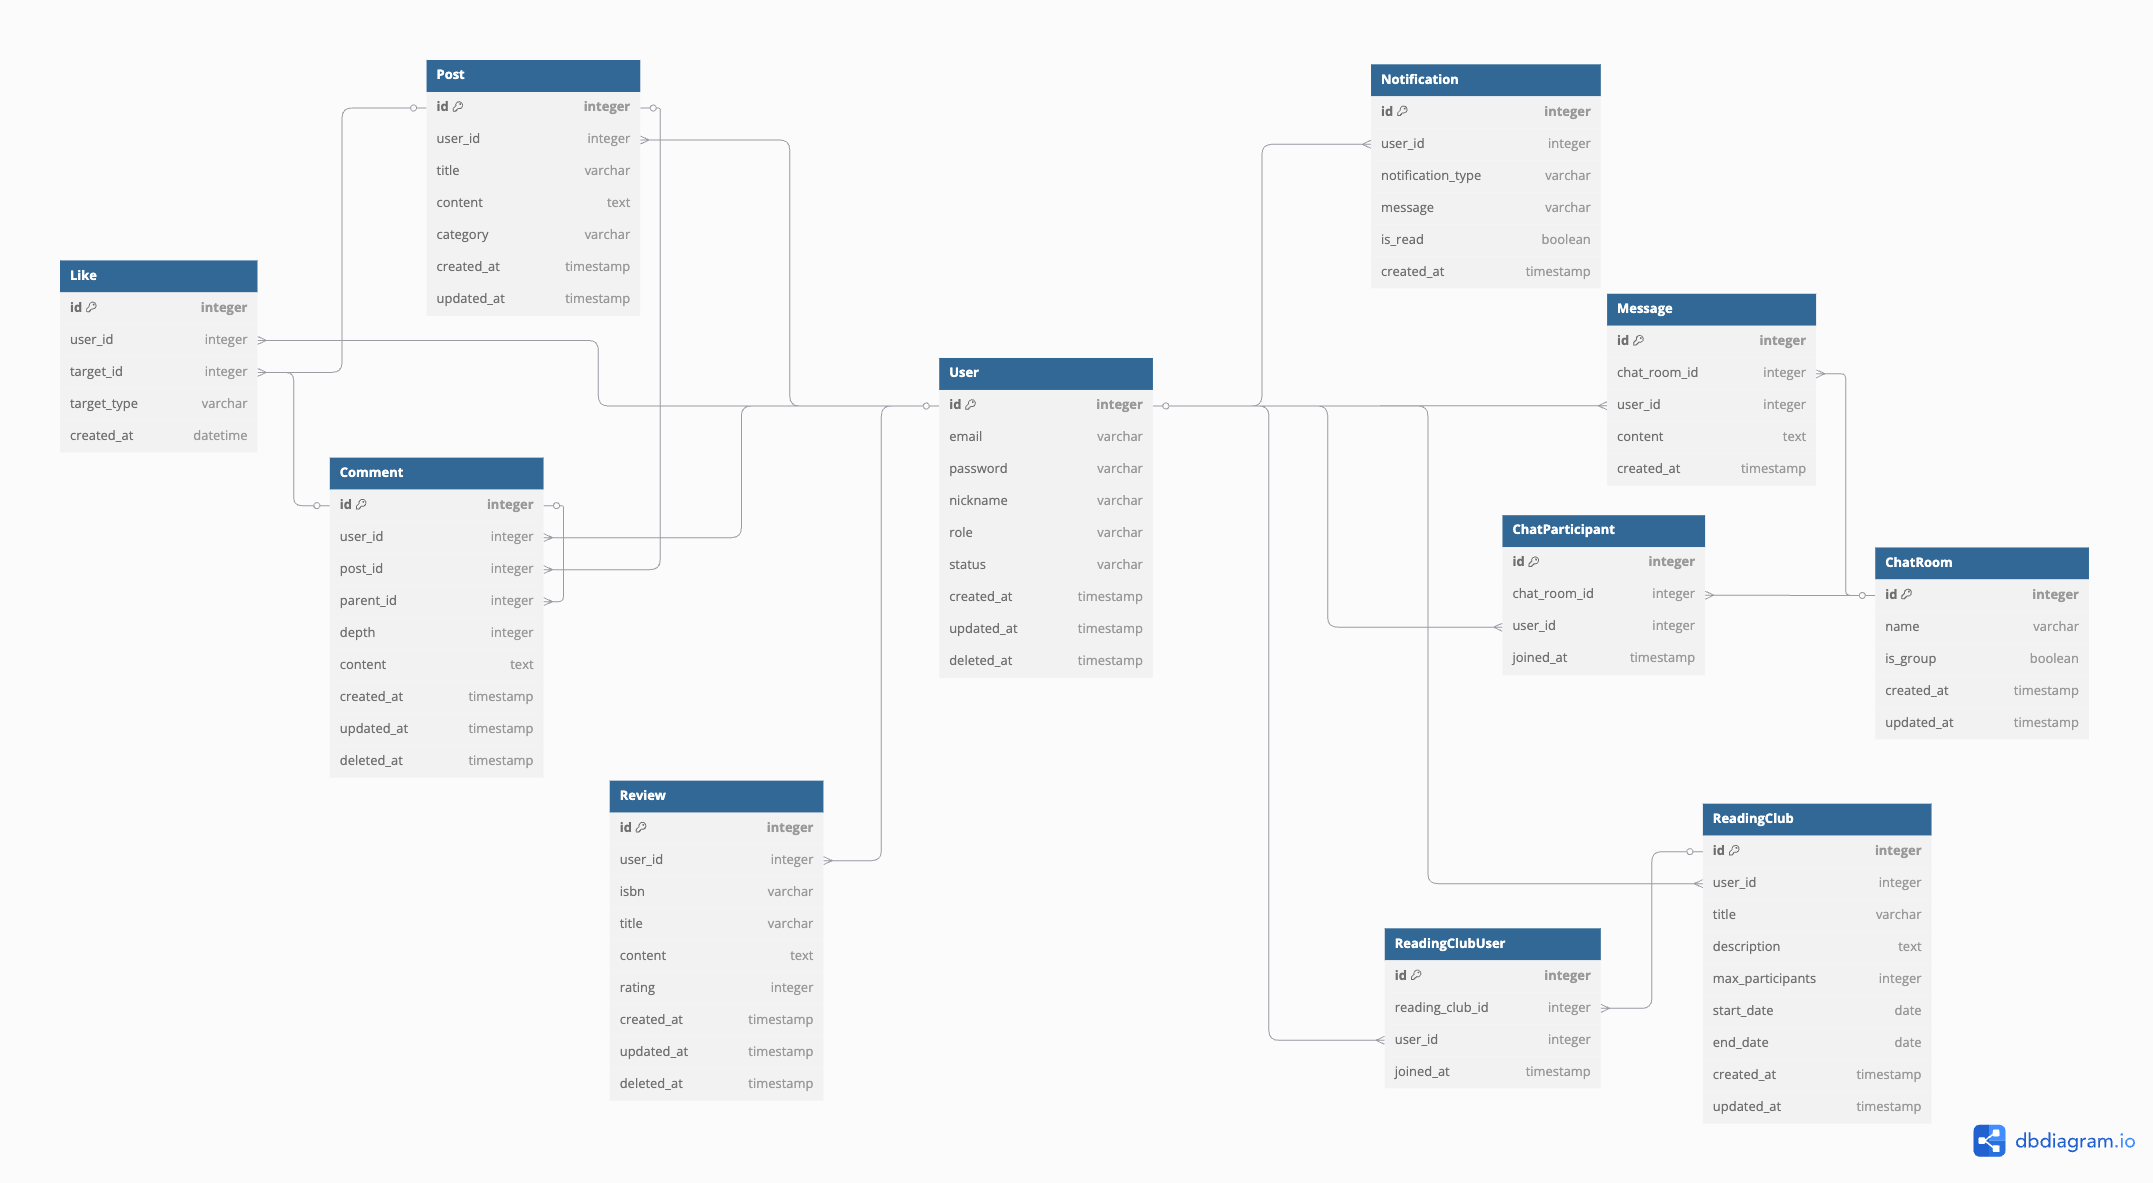
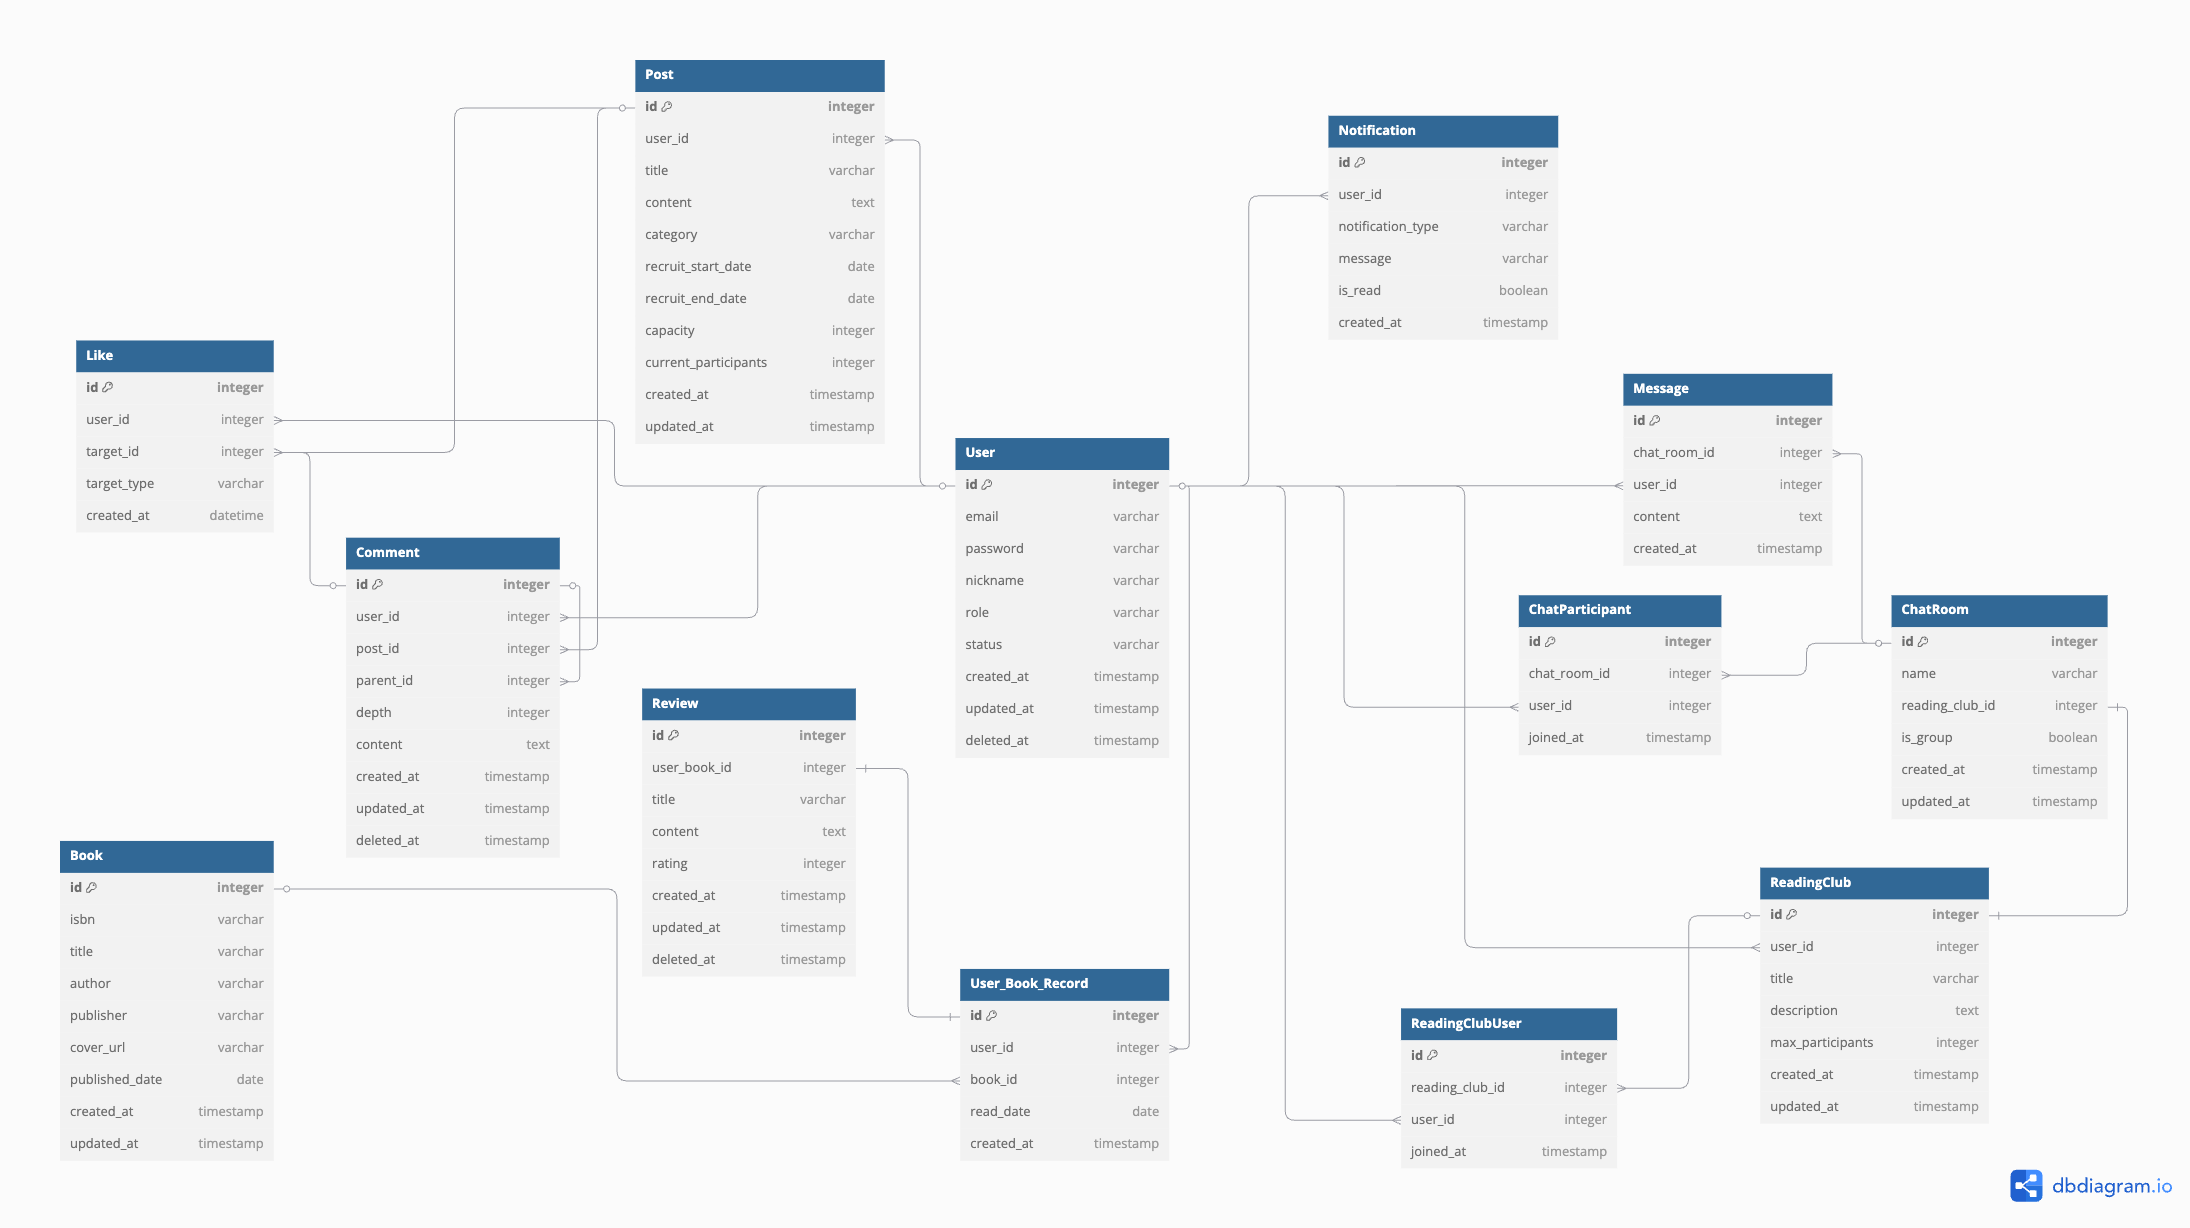
Update README.md

diff --git a/README.md b/README.md
@@ -1,11 +1,138 @@
-# Bookmate
+# Bookmate : 독서 커뮤니티 플랫폼
 
-독서 커뮤니티 플랫폼입니다.
+책을 읽으면서 느낀 점을 기록하고 공유하는 것은 독서를 더 깊이 있게 만들어 줍니다.<br/>
+이를 위해 도서 정보 제공, 도서 리뷰, 독서 모임, 게시글 및 채팅 기능을 포함한 독서 커뮤니티 플랫폼을 제공합니다.
 
----
+<br/>
+
+## 🖌 문서
+
+- [Figma](https://www.figma.com/design/zTrQn3zufIdRL5WanE1A35/%EB%8F%85%EC%84%9C%ED%94%8C%EB%9E%AB%ED%8F%BC?node-id=0-1&t=oeslKdQ9h8St817t-1) : 와이어 프레임
+- [Notion](https://waiting-cathedral-0c2.notion.site/29-1-19ebd403e38f801b97e0fe4cf715741a?pvs=4) : 기획
+- [Swagger]() : API 명세서
+
+<br/>
 
 ## 🗒 ERD
 
 ![bookmate_erd.png](bookmate_erd.png)
 
----
+<br/>
+
+## 🛠 기술 스택
+
+### Back-end
+<div align=center> 
+    <img src="https://img.shields.io/badge/java-007396?style=for-the-badge&logo=OpenJDK&logoColor=white">
+    <img src="https://img.shields.io/badge/spring-6DB33F?style=for-the-badge&logo=spring&logoColor=white"> 
+    <img src="https://img.shields.io/badge/mysql-4479A1?style=for-the-badge&logo=mysql&logoColor=white"> 
+    <img src="https://img.shields.io/badge/git-F05032?style=for-the-badge&logo=git&logoColor=white">
+    <br>
+    <img src="https://img.shields.io/badge/jwt-000000?style=for-the-badge&logo=jsonwebtokens&logoColor=white">
+    <img src="https://img.shields.io/badge/redis-%23DD0031.svg?style=for-the-badge&logo=redis&logoColor=white">
+    <img src="https://img.shields.io/badge/socket.io-010101?style=for-the-badge&logo=socketdotio&logoColor=white">
+    <img src="https://img.shields.io/badge/FCM-DD2C00?style=for-the-badge&logo=firebase&logoColor=white">
+    <img src="https://img.shields.io/badge/-Swagger-%23Clojure?style=for-the-badge&logo=swagger&logoColor=white">
+    <br>
+</div>
+
+<br/>
+
+## ⚙ 아키텍쳐
+
+<br/>
+
+## 🗂 폴더 구조
+```
+src
+└── main
+    ├── java
+    │   └── com.bookmate.bookmate
+    │       ├── user
+    │       │   ├── controller
+    │       │   ├── dto
+    │       │   ├── entity
+    │       │   ├── exception
+    │       │   ├── repository
+    │       │   └── service
+    │       ├── book
+    │       ├── chat
+    │       ├── comment
+    │       ├── like
+    │       ├── openAI
+    │       ├── post
+    │       ├── readingclub
+    │       ├── review
+    │       ├── subscription
+    │       ├── notification
+    │       └── common              # 공통 로직
+    │           ├── config          # 프로젝트 설정
+    │           ├── error           # 전역 예외 처리
+    │           └── security
+    │               ├── CustomUserDetails.java
+    │               ├── CustomUserDetailsService.java
+    │               ├── JwtAuthenticationFilter.java
+    │               └── JwtTokenProvider.java
+    ├── resources
+    │   └── application.yml         # 환경 설정 파일
+    └── test                        # 테스트 코드
+```
+
+<br/>
+
+## ✔ 주요 기능
+- 유저
+    - 이메일 인증을 통한 회원가입
+    - JWT를 활용한 인증/인가 로직 구현 (RTR 방식 사용)
+    - 로그인 후 모든 서비스 이용 가능
+    - 회원 정보 조회/수정/탈퇴
+- 도서 검색
+    - 알라딘 API
+- 도서 리뷰
+- 독서 모임
+    - 한 유저가 한 개의 독서모임만 개설 가능
+    - 독서 모임 생성/수정/삭제 (개설자만 허용)
+    - 독서 모임 전체 목록 조회, 상세 조회, 특정 유저가 참여한 모임 목록 조회, 특정 독서모임의 참여/신청자 목록 조회
+    - 독서 모임 모집 게시글을 통해 독서모임 참여 신청 가능
+    - 독서 모임 개설자는 참여 신청 목록을 확인 후 승인/거절
+    - 독서 모임 참여 승인 시 자동 그룹 채팅방 초대
+    - 독서 모임 탈퇴
+- 채팅
+    - 상대방 프로필을 통해 상대방과 1:1 채팅 가능
+    - 독서 모임에 참여한 경우 해당 모임 그룹 채팅 가능
+- 알림
+    - 메시지, 좋아요가 오면 유저 디바이스로 알림 도착 (FCM)
+- 게시글
+    - 자유 게시글, 독서 토론 게시글, 독서 모임 모집 게시글 카테고리로 나누어져 있음
+    - 독서 모임 모집 게시글의 경우 모집 기간, 모집 인원 수, 현재 신청된 인원 수 확인 가능
+    - 좋아요
+    - AI 보정 기능
+- 댓글
+    - 대댓글
+
+<br/>
+
+## 💻 팀원 소개
+
+<table>
+    <tr align="center">
+        <td><B>Leader / Backend</B></td>
+        <td><B>Backend</B></td>
+    </tr>
+    <tr align="center">
+        <td><B>허은리</B></td>
+        <td><B>상우진</B></td>
+    </tr>
+    <tr align="center">
+        <td>
+            <img src="https://avatars.githubusercontent.com/u/122986061?v=4" width=100>
+            <br>
+            <a href="https://github.com/eunli"><I>eunli</I></a>
+        </td>
+        <td>
+            <img src="">
+            <br>
+            <a href="https://github.com/tkdalsrb123"><I>Woojin</I></a>
+        </td>
+    </tr>
+</table>
